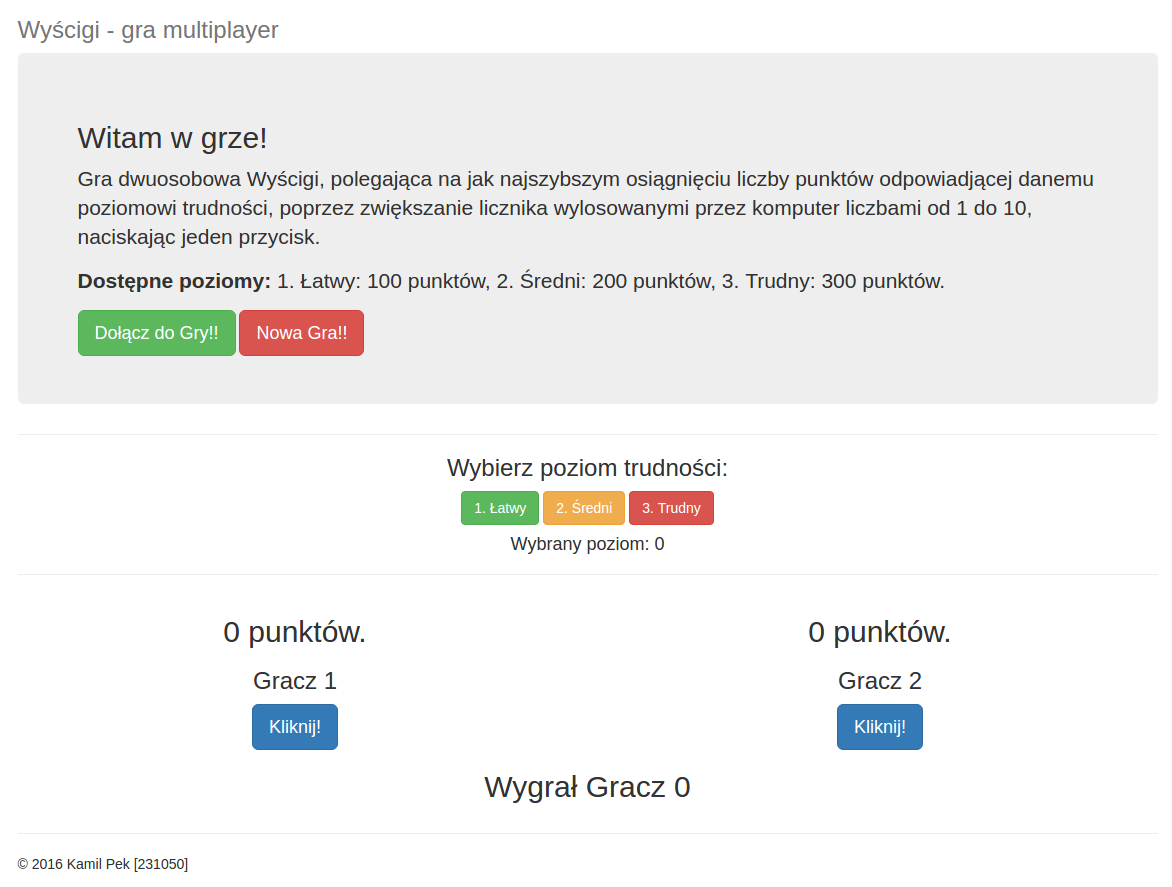
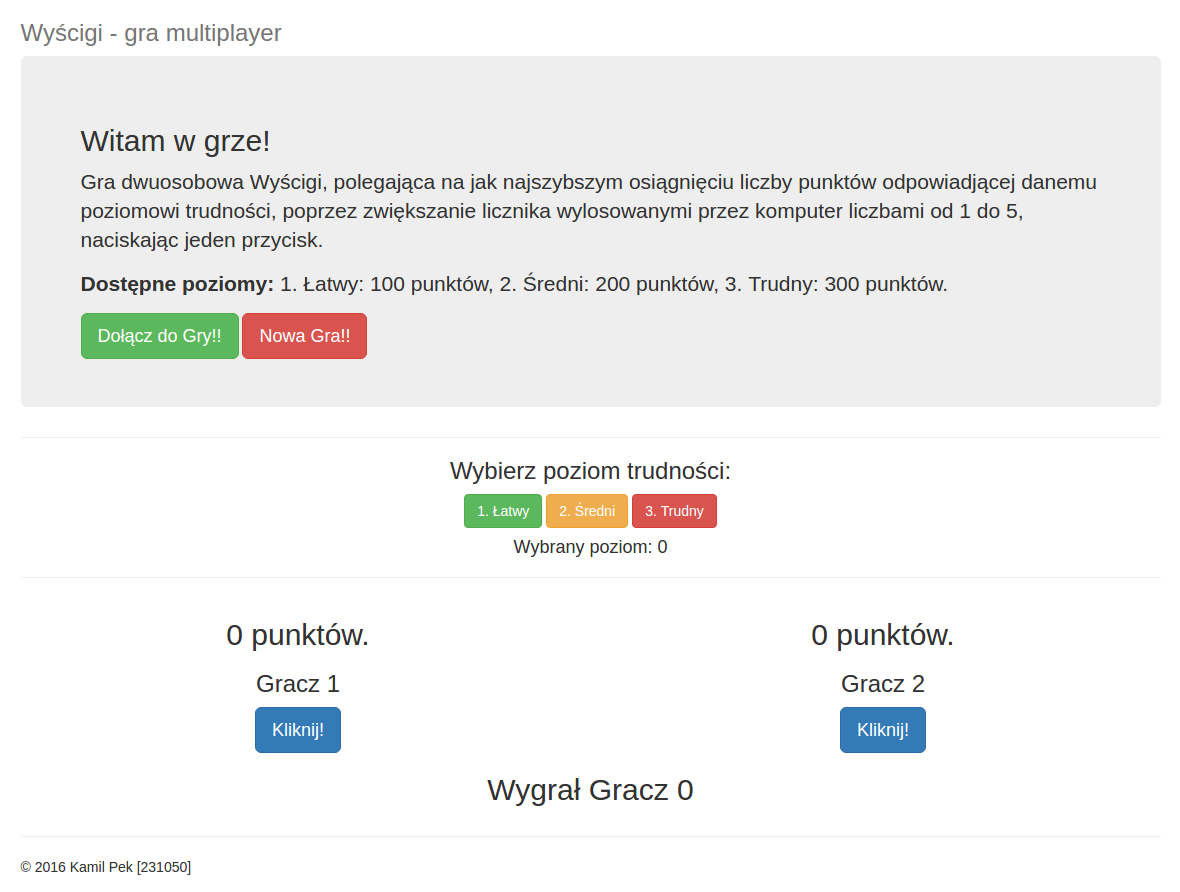
poprawki

diff --git a/client/main.js b/client/main.js
@@ -64,7 +64,7 @@ if (Meteor.isClient){
     },
     'click #btngracz1'(event, instance) {
       var g1a = instance.gracz1.get();
-      var g1b = Math.floor((Math.random() * 10) + 1);
+      var g1b = Math.floor((Math.random() * 5) + 1);
       var g1wynik = g1a + g1b;
       var g1 = Punkty.findOne({name:"gracz1"})
       Punkty.update({_id: g1._id}, { $set: { score: g1wynik }} );
@@ -74,10 +74,27 @@ if (Meteor.isClient){
       var g2pkt = Punkty.findOne({"name":"gracz2"}, {"score":1, "_id":0});
       var pkt2 = g2pkt.score;
       instance.gracz2.set(pkt2);
+      var wygpkt = Punkty.findOne({"name":"wygral"}, {"score":1, "_id":0});
+      var wpkt = wygpkt.score;
+      instance.wygrany.set(wpkt);
+      if(wpkt > 0){
+        var gr1 = Punkty.findOne({name:"gracz1"});
+        var gr2 = Punkty.findOne({name:"gracz2"});
+        var poz = Punkty.findOne({name:"poziom"});
+        Punkty.remove({_id: gr1._id});
+        Punkty.remove({_id: gr2._id});
+        Punkty.remove({_id: poz._id});
+        Punkty.insert({ name: "gracz1", score: 0});
+        Punkty.insert({ name: "gracz2", score: 0});
+        Punkty.insert({ name: "poziom", score: 0});
+        instance.gracz1.set(0);
+        instance.gracz2.set(0);
+        instance.poziom.set(0);
+      }
       if(g1wynik >= poziom) {
         instance.gracz1.set(0);
         instance.gracz2.set(0);
-        var wyg1 = Punkty.findOne({name:"wygral"})
+        var wyg1 = Punkty.findOne({name:"wygral"});
         Punkty.update({_id: wyg1._id}, { $set: { score: 1 }} );
         var wyg1pkt = Punkty.findOne({"name":"wygral"}, {"score":1, "_id":0});
         var wpkt1 = wyg2pkt.score;
@@ -86,7 +103,7 @@ if (Meteor.isClient){
     },
     'click #btngracz2'(event, instance) {
       var g2a = instance.gracz2.get();
-      var g2b = Math.floor((Math.random() * 10) + 1);
+      var g2b = Math.floor((Math.random() * 5) + 1);
       var g2wynik = g2a + g2b;
       var g2 = Punkty.findOne({name:"gracz2"})
       Punkty.update({_id: g2._id}, { $set: { score: g2wynik }} );
@@ -96,6 +113,23 @@ if (Meteor.isClient){
       var g2pkt = Punkty.findOne({"name":"gracz2"}, {"score":1, "_id":0});
       var pkt2 = g2pkt.score;
       instance.gracz2.set(pkt2);
+      var wygpkt = Punkty.findOne({"name":"wygral"}, {"score":1, "_id":0});
+      var wpkt = wygpkt.score;
+      instance.wygrany.set(wpkt);
+      if(wpkt > 0){
+        var gr1 = Punkty.findOne({name:"gracz1"});
+        var gr2 = Punkty.findOne({name:"gracz2"});
+        var poz = Punkty.findOne({name:"poziom"});
+        Punkty.remove({_id: gr1._id});
+        Punkty.remove({_id: gr2._id});
+        Punkty.remove({_id: poz._id});
+        Punkty.insert({ name: "gracz1", score: 0});
+        Punkty.insert({ name: "gracz2", score: 0});
+        Punkty.insert({ name: "poziom", score: 0});
+        instance.gracz1.set(0);
+        instance.gracz2.set(0);
+        instance.poziom.set(0);
+      }
       if(g2wynik >= poziom) {
         instance.gracz1.set(0);
         instance.gracz2.set(0);
@@ -118,7 +152,7 @@ if (Meteor.isClient){
       Punkty.insert({ name: "gracz1", score: 0});
       Punkty.insert({ name: "gracz2", score: 0});
       Punkty.insert({ name: "wygral", score: 0});
-      Punkty.insert({ name: "poziom", score: 0});wyg
+      Punkty.insert({ name: "poziom", score: 0});
       instance.gracz1.set(0);
       instance.gracz2.set(0);
       instance.wygrany.set(0);

diff --git a/client/main.html b/client/main.html
@@ -23,7 +23,7 @@
 <template name="gra">
   <div class="jumbotron">
     <h2> Witam w grze! </h2>
-    <p class="lead">Gra dwuosobowa Wyścigi, polegająca na jak najszybszym osiągnięciu liczby punktów odpowiadjącej danemu poziomowi trudności, poprzez zwiększanie licznika wylosowanymi przez komputer liczbami od 1 do 10, naciskając jeden przycisk.</p>
+    <p class="lead">Gra dwuosobowa Wyścigi, polegająca na jak najszybszym osiągnięciu liczby punktów odpowiadjącej danemu poziomowi trudności, poprzez zwiększanie licznika wylosowanymi przez komputer liczbami od 1 do 5, naciskając jeden przycisk.</p>
     <p class="lead"><b>Dostępne poziomy:</b> 1. Łatwy: 100 punktów, 2. Średni: 200 punktów, 3. Trudny: 300 punktów.</p>
     <button id="btndolacz" class="btn btn-lg btn-success">Dołącz do Gry!!</button>
     <button id="btnnowagra" class="btn btn-lg btn-danger">Nowa Gra!!</button>

diff --git a/readme.md b/readme.md
@@ -2,9 +2,10 @@
 ## MeteorJS, MongoDB i Bootstrap
 
 - Autor: Kamil Pek - 231050
+- Adres: [Nitrous.io](http://meteor-wyscigi-189800.nitrousapp.com/)
 
 ## Wyścigi
-Gra dwuosobowa Wyścigi, polegająca na jak najszybszym osiągnięciu liczby punktów odpowiadjącej danemu poziomowi trudności, poprzez zwiększanie licznika wylosowanymi przez komputer liczbami od 1 do 10, naciskając jeden przycisk.
+Gra dwuosobowa Wyścigi, polegająca na jak najszybszym osiągnięciu liczby punktów odpowiadjącej danemu poziomowi trudności, poprzez zwiększanie licznika wylosowanymi przez komputer liczbami od 1 do 5, naciskając jeden przycisk.
 Dostępne poziomy: 1. Łatwy: 100 punktów, 2. Średni: 200 punktów, 3. Trudny: 300 punktów.
 
 ![screenshot](screenshot.png)
